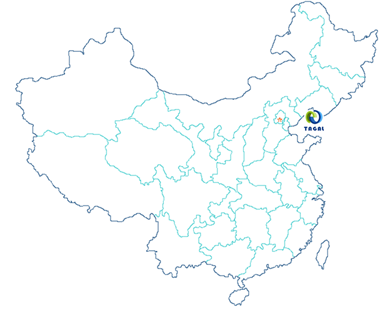
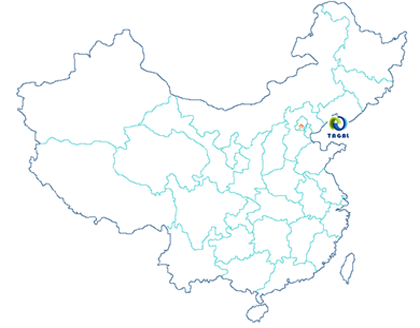
contact

diff --git a/stylesheets/main.css b/stylesheets/main.css
@@ -435,11 +435,11 @@ html, body {
   padding-left: 16px;
 }
 /* line 159, ../sass/main.scss */
-.panel .panel-title:hover {
+.panel a.panel-title:hover {
   color: #ffcc00;
 }
 /* line 161, ../sass/main.scss */
-.panel .panel-title:hover .sword {
+.panel a.panel-title:hover .sword {
   color: #ffcc00;
 }
 /* line 165, ../sass/main.scss */
@@ -1016,14 +1016,14 @@ html, body {
 }
 /* line 641, ../sass/main.scss */
 .content .map_box {
-  padding-top: 50px;
+  padding-top: 30px;
 }
 /* line 643, ../sass/main.scss */
 .content .map_box .left {
-  width: 390px;
+  width: 420px;
   float: left;
-  height: 320px;
-  background: url("../images/tagalworld_cn.png") no-repeat scroll 0 0 transparent;
+  height: 360px;
+  background: url("../images/tagalworld_cn.png") no-repeat scroll 0 16px transparent;
 }
 /* line 648, ../sass/main.scss */
 .content .map_box .left p {

diff --git a/sass/main.scss b/sass/main.scss
@@ -156,7 +156,7 @@ $content-width:960px;
         padding-left: 16px;
       }
   }
-  .panel-title:hover{
+  a.panel-title:hover{
     color:rgb(255,204,0);
     .sword{
       color:rgb(255,204,0);
@@ -639,12 +639,12 @@ $content-width:960px;
       }
     }
     .map_box{
-      padding-top:50px;
+      padding-top:30px;
       .left{
-        width:390px;
+        width:420px;
         float:left;
-        height:320px;
-        background:url("../images/tagalworld_cn.png") no-repeat scroll 0 0 transparent;
+        height:360px;
+        background:url("../images/tagalworld_cn.png") no-repeat scroll 0 16px transparent;
         p{
           background:url("../images/bg_contact.png") repeat-y scroll 0 0 transparent;
           width:300px;
